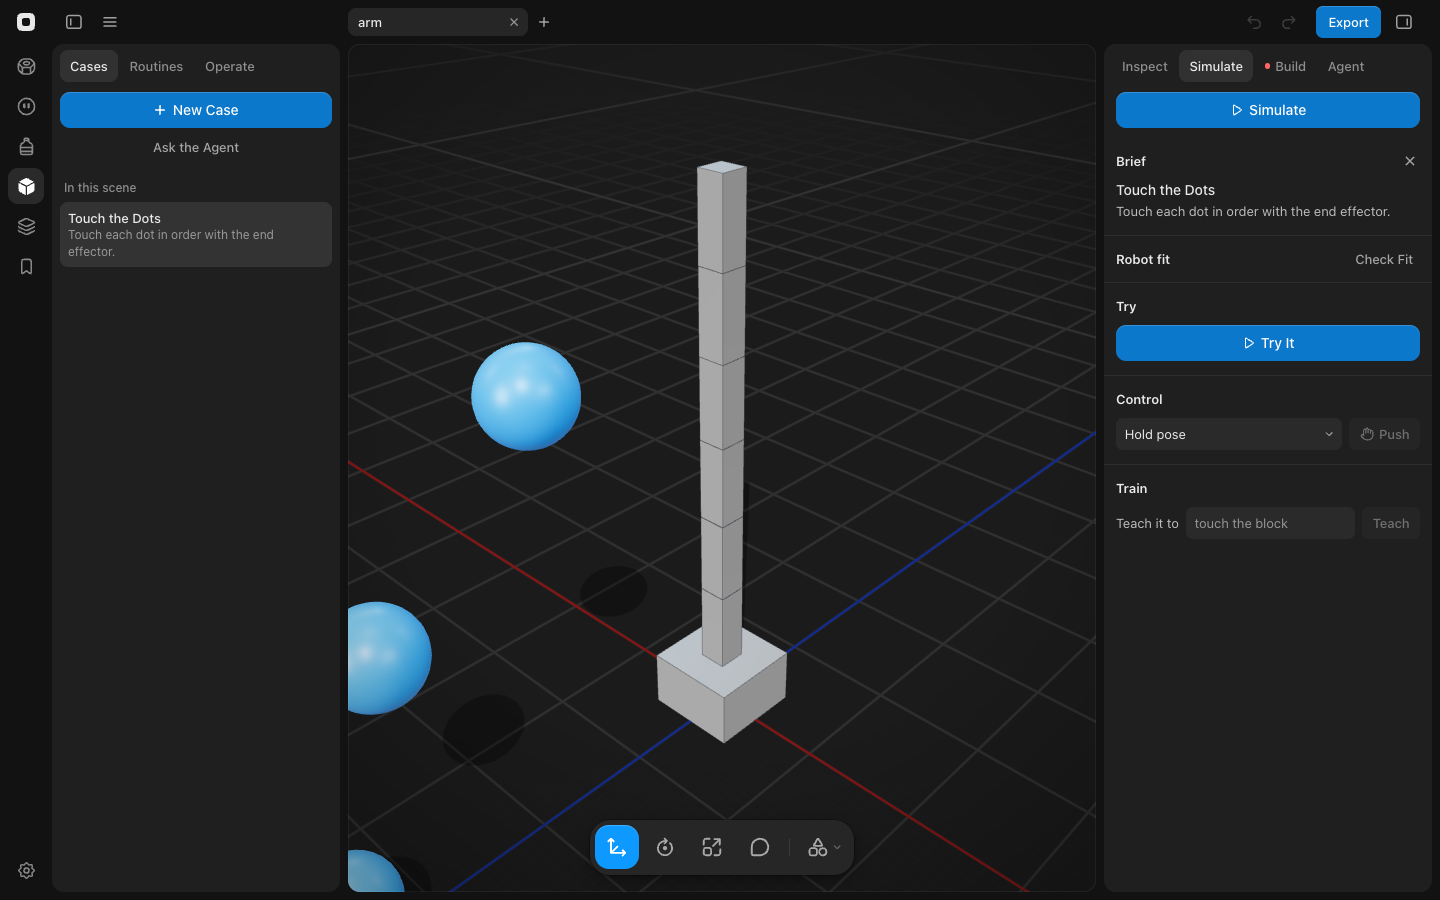
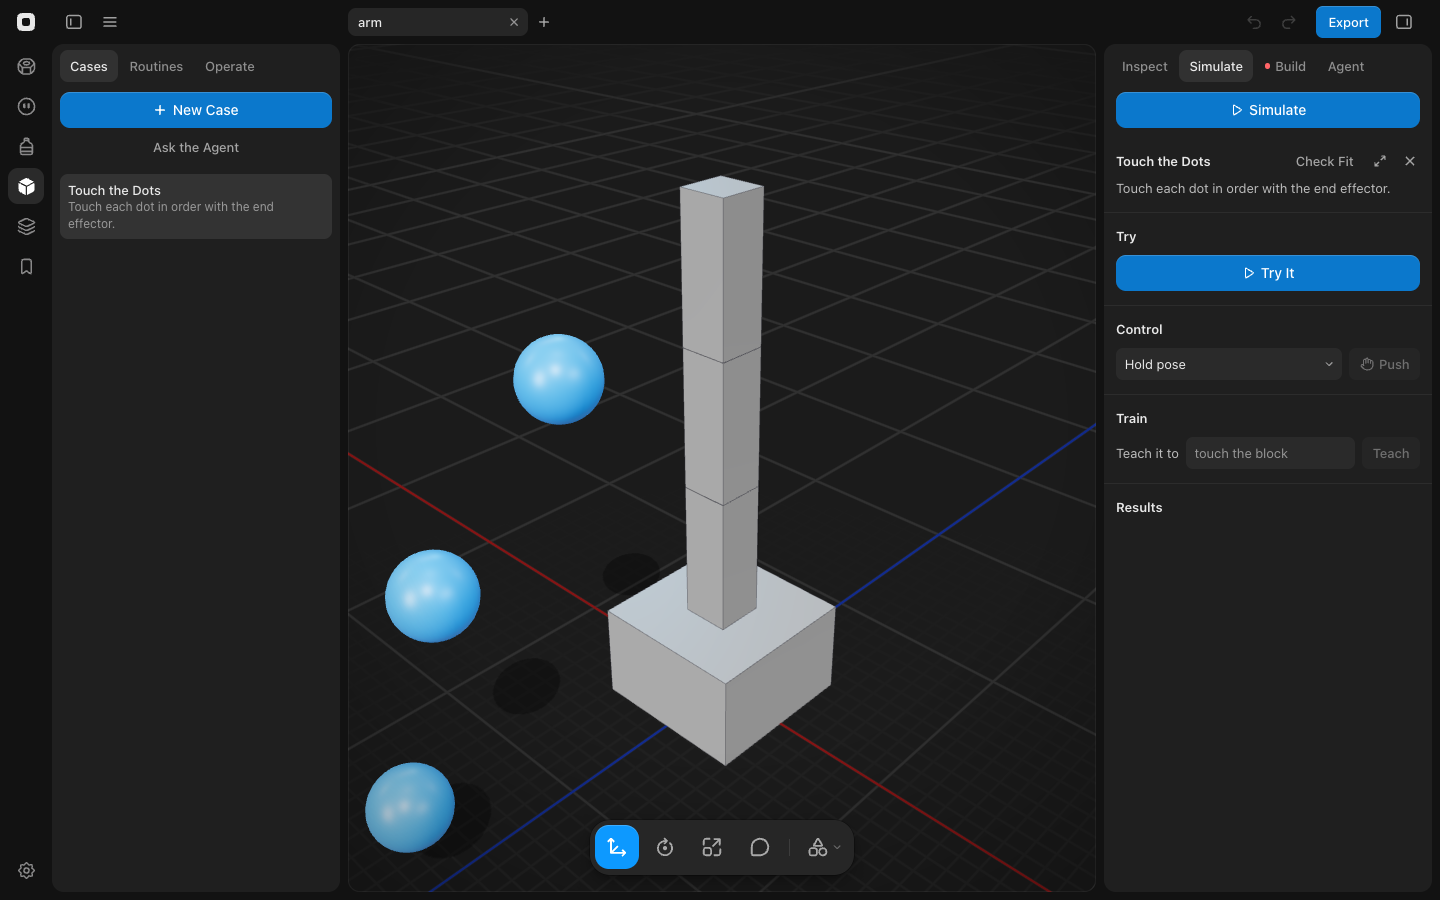
Drop the Cases tab's In this scene heading, which heads its only list
Since Examples folded into New Case, the Cases tab has one list: the
scene's Cases. Its "In this scene" heading told it apart from a list
that no longer exists, so it goes, with the one-off Heading component
that drew it. The help articles point to New Case and the Cases tab
instead, the Start a Case screenshot is recaptured, and the e2e test
checks the new Case is listed rather than the heading.

diff --git a/src/components/cases/CasesPanel.tsx b/src/components/cases/CasesPanel.tsx
@@ -11,10 +11,6 @@ export interface CasesPanelProps {
   onDescribe?: () => void;
 }
 
-const Heading: React.FC<{ children: string }> = ({ children }) => (
-  <div className="px-[4px] h-8 flex items-center text-[12px] font-medium text-white/50">{children}</div>
-);
-
 function NewCase({ cases, onOpen, onDescribe }: Omit<CasesPanelProps, 'onBrowseRobots'>) {
   const { builder } = cases;
 
@@ -63,7 +59,6 @@ export const CasesPanel: React.FC<CasesPanelProps> = ({ cases, onOpen, onDescrib
       <NewCase cases={cases} onOpen={onOpen} onDescribe={onDescribe} />
       {cases.cases.length > 0 && (
         <div className="mb-3">
-          <Heading>In this scene</Heading>
           {cases.cases.map((c) => (
             <CaseRow
               key={c.id}

diff --git a/e2e/drive.e2e.test.ts b/e2e/drive.e2e.test.ts
@@ -355,7 +355,7 @@ describe('Cases', () => {
     await expect.poll(async () => (await simState()).activeCase).toBe('push-a-box-in-a-corridor');
     await expect.poll(async () => (await simHeadings())[0]).toBe('Push a Box in a Corridor');
     expect((await simState()).world).toEqual(['box', 'goal', 'wall-left', 'wall-right']);
-    expect(await panel.innerText()).toContain('In this scene');
+    expect(await panel.innerText()).toContain('Push a Box in a Corridor');
 
     await button('Ask the Agent').click();
     await expect.poll(() => app.page.locator(visible('textarea')).last().inputValue()).toBe('/case ');

diff --git a/docs/guide/layout.md b/docs/guide/layout.md
@@ -37,7 +37,7 @@ Part of the Basecase guide. [AGENTS.md](../../AGENTS.md) holds the rules every c
         - Rails, shafts and extrusions are cut to length up to the maker's maximum (`maxLength`), so a custom length shows no “Not a stock length” warning. Rails lie along Z; extrusions and shafts stand along Y like pins. Mass comes from the catalog (kg/m or per piece), not from mesh volume.
     - **Objects** (`components/objects/ObjectsPanel.tsx`): things a robot handles or works around, searched live in NVIDIA's SimReady Central (§8e). Search first (“Search objects”; results follow typing after 300 ms, Enter searches at once and inserts nothing), else a row per category straight under the field, with no heading (Kitchen, Food, Boxes and bins… in `objectCategories.ts`, the same `BrowseRow` as Parts' Browse rows) that opens a scoped search (“Search kitchen”, Back or Esc returns). Results are a 2-column grid of the asset's own thumbnail, name and maker, loading the next 40 as you near the end (infinite scroll, an `IntersectionObserver` 400px ahead). Hover opens details (`SimReadyTile`: caption, Size, Weight, Moving parts, Open on Hugging Face), with no Insert of its own, like Parts' and Library's cards; SimReady robots in Robots use the same tile. Click or drag inserts; the toast shows download and conversion progress.
     - **Layers:** search first (“Search layers”, matches part and group names, every word; Esc clears), keeping each match under its group's row (expanded while searching; the group row still selects the whole group), “No matches for “⟨query⟩”” when none; then a header with the part and cutout counts and, when the scene has reference images, their show/hide toggle (⇧I); the selection's count is in the multi-selection Inspector (§7a). Then a footer with the overall size (visible, non-reference parts), and rows with color/role glyph. Double-click renames. Eye and lock float over the row's right end on hover (§4, hidden elements never push content), and stay while the part is hidden or locked, so names run the full width. Right-click opens the part menu. A boolean's operands nest under its row, indented one more step (base first), with the row's chevron to collapse them; they start expanded, nested booleans recurse, and search shows a matching operand under its parents (`layerRows.ts`). An operand row selects that operand (§7a) and has no rename, menu, eye or lock; the header counts top-level parts only. An empty scene leaves Layers empty: just its header, no empty state.
-    - **Cases** (`components/cases/CasesPanel.tsx`, §8h): New Case (opens the builder card in place) and Ask the Agent (puts `/case ` in the composer); “In this scene” lists the scene's Cases (right-click Delete asks first). New Case is the only list of goals; there are no examples beside it. Picking a Case opens it in the Simulate tab. Without a robot it shows “No robot” + [Browse Robots], which opens Robots.
+    - **Cases** (`components/cases/CasesPanel.tsx`, §8h): New Case (opens the builder card in place) and Ask the Agent (puts `/case ` in the composer), then the scene's Cases, with no heading (right-click Delete asks first). New Case is the only list of goals; there are no examples beside it. Picking a Case opens it in the Simulate tab. Without a robot it shows “No robot” + [Browse Robots], which opens Robots.
     - **Routines** (`components/routines/RoutinesPanel.tsx`, §8j): the scene's Routines, built by hand or by the agent, as a flowchart (React Flow laid out with dagre, `RoutineFlow.tsx`). Without one it shows “No routines” and a primary New Routine. Above the flow: the Routine's name, which opens a menu of the scene's Routines with New Routine, Rename and Delete (asks first); the name is a menu button, so it has no double-click rename, then Add Step and Run (only while it compiles); then a status line (checking, running, how many steps to fix, or “Every scenario passes”; nothing when the Routine just compiles, since Run already says so), any compiler message that names no node, and one Add button per sensor the robot lacks (Add Camera places a Raspberry Pi Camera Module 3 on the head, or on top of the body, and mounts it on that joint). A “+” on every edge and under the last step of each path opens the step menu; selecting a step shows its fields under the flow. Nodes light from the live trace; a node whose skill isn't ready shows a Train button, which calls `onTrain(skill)`; the node already names the skill. Its rail icon is a small flowchart (`RoutinesIcon`, boxes filled when open). ⌘K has Show Routines, New Routine, Add Step and Run Routine.
     - **Operate** (`components/operate/OperatePanel.tsx`, §8k): drives emulated servos through the robot daemon. Connect Emulated Robot; without joints, “No robot” + [Browse Robots] instead, and nothing over 32 servos; once connected, one line with the servo count, the run state, Stop while motors run, Clear Fault in Look and Disconnect, the newest faults and refusals in the daemon's words, the Ladder (one button per rung, the current one checked, only the next one enabled), Calibrate Servos in Test, then Emulated servos: one row per joint with its name, bus ID, angle and temperature, and its verdict and active version once calibrated (More floats over the row on hover, with the measured versions and Roll Back; clicking the row opens its replay).
     - **Library** (`LibraryPanel`) holds saved models, in the same voice as Parts. Saved scenes live in the Scenes menu (`ScenesMenu`, ⌘O, beside the sidebar toggle), not here.

diff --git a/docs/guide/cases.md b/docs/guide/cases.md
@@ -142,7 +142,7 @@ A Case's rules are a Routine (§8j), never a second format: `logic` holds one, `
 
 ### In the app
 
-- **Cases** tab in the Play view (§5). It opens with **New Case** (primary; tooltip “Pick a world and a goal”; hidden when the robot can try no goal), which opens the builder card in place: Goal (only the goals that fit; hidden when there's one), World, the goal's numbers, Name, then the brief it will get, or the fix when the numbers can't work, with Cancel (Esc) and Create (↩). Create adds the Case, opens it and switches to the Simulate tab. **Ask the Agent** (desktop only) puts `/case ` in the agent composer, focused. Then “In this scene”. Without a robot: “No robot” + [Browse Robots].
+- **Cases** tab in the Play view (§5). It opens with **New Case** (primary; tooltip “Pick a world and a goal”; hidden when the robot can try no goal), which opens the builder card in place: Goal (only the goals that fit; hidden when there's one), World, the goal's numbers, Name, then the brief it will get, or the fix when the numbers can't work, with Cancel (Esc) and Create (↩). Create adds the Case, opens it and switches to the Simulate tab. **Ask the Agent** (desktop only) puts `/case ` in the agent composer, focused. Under them, the scene's Cases, with no heading. Without a robot: “No robot” + [Browse Robots].
 - **Simulate tab** with a Case open reads in the order a person works: **the Case** (its name is the section title, with Check Fit, Run Case and Close; under it the brief, then the fit once checked: fits this Case (Yes or No, never a list of what's missing), compiles, settles 1.5 s, body class, fall check; skipped rows aren't shown; never restates Ready to build; a Case that doesn't fit offers New Case), **Try** (Try It, a clock, End Try, the keys), **Control**, **Train** (Teach it to, the skills list and trained policies, §8d), **Results** (the latest run, then tries worst first, each with Replay, which opens the try timeline, then Export Dataset and Publish to Hugging Face once one passed, § Datasets, and Share Robot, § Web gallery; with nothing else to show it shows only Share Robot). Without a Case, Control has Drive. A connected emulated robot's live status is in Operate, in the left panel, so it stays on screen beside the tab during a try (§8k); a running Case shows it in a servos panel. What the simulation estimates (torque without a servo, servos without a measured model) is in Build → Checks (§8b), not here.
 - **Checks** (Build tab, §8b) lists every Case as a row with how many of 20 seeded runs it passed (§ Seeded runs); clicking the row opens the Case here.
 - ⌘K: Show Cases, New Case, Drive or Stop Driving, Start Over, Try ⟨Case⟩, Run Case, Export Dataset, Publish to Hugging Face, Share Robot.

diff --git a/site/content/help/make-a-case.md b/site/content/help/make-a-case.md
@@ -48,6 +48,6 @@ The Case opens in the **Simulate** tab, and its world appears on the canvas. Nex
 
 ## Name or delete a Case
 
-The **Name** field sets the name before you click **Create**. To delete a Case, right-click it under **In this scene** and choose **Delete**. Its tries go with it, so Basecase asks first.
+The **Name** field sets the name before you click **Create**. To delete a Case, right-click it in the **Cases** tab and choose **Delete**. Its tries go with it, so Basecase asks first.
 
 Every goal, world and number is listed in [Case goals, worlds and contracts](/help/case-goals-worlds-and-contracts).

diff --git a/site/content/help/start-a-case.md b/site/content/help/start-a-case.md
@@ -27,4 +27,4 @@ A Case is a goal your robot tries in simulation, like touching a dot or reaching
 
 ![Touch the Dots open in the Simulate tab](/help/start-a-case/opened.png)
 
-To describe a Case in your own words instead, click **Ask the Agent** under New Case and type what the robot should do after `/case`. Cases you've made are listed under In this scene; right-click one to delete it.
+To describe a Case in your own words instead, click **Ask the Agent** under New Case and type what the robot should do after `/case`. Cases you've made are listed under New Case; right-click one to delete it.

diff --git a/site/content/help/try-a-case.md b/site/content/help/try-a-case.md
@@ -30,7 +30,7 @@ covers:
 Drive the robot through an open Case while Basecase records it, then see whether the try passed and replay it.
 
 1. Click **Play** in the view rail.
-2. Click a Case under **In this scene**. It opens in the **Simulate** tab.
+2. Click a Case under **New Case**. It opens in the **Simulate** tab.
 3. Under **Robot fit**, click **Check Fit**.
 4. Under **Try**, click **Try It**. Recording starts and the robot is yours to drive.
 5. Drive the robot to the goal with the keys listed under **Try**.
